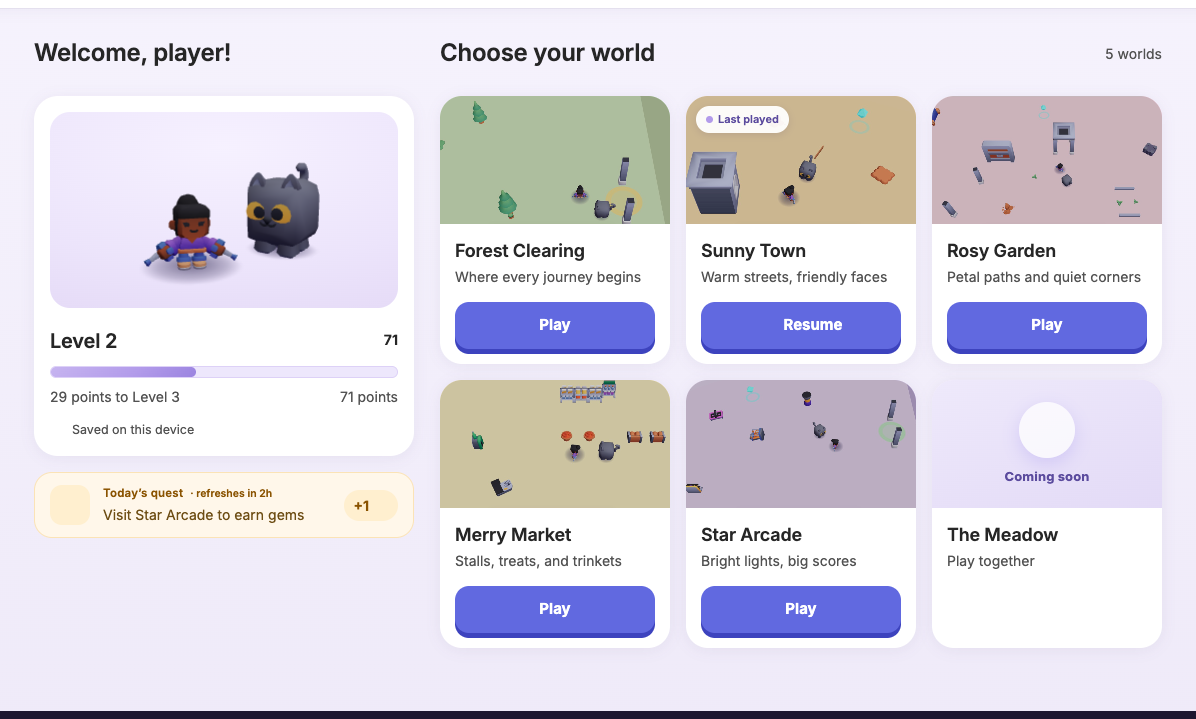
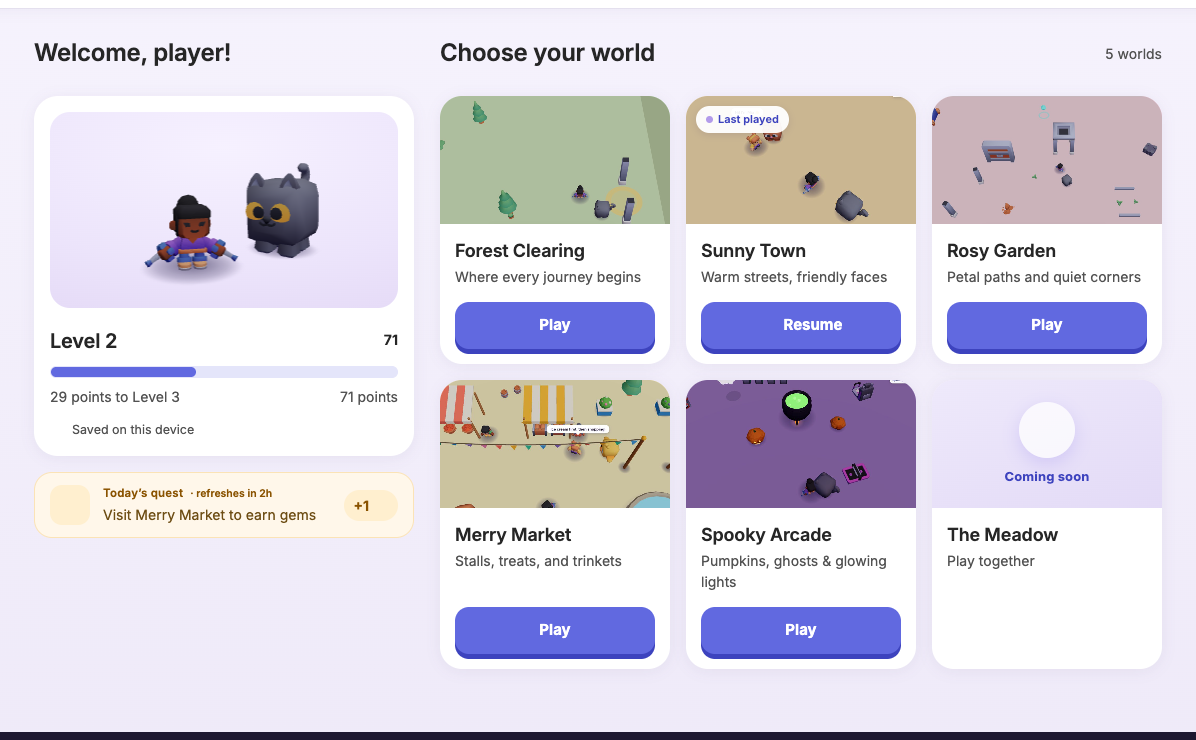
Door level bar + level-up glow follow the Iris level identity
#38 moved the shared LVL to Iris, but the Door kept its own Lilac copy, so the
home screen's level bar stayed lilac while the HUD pill went Iris. The Door's
track/fill now read mathkit LVL; the HUD pill's surgeGlow keyframe moves to
Iris 500. "Last played" / "Coming soon" text Lilac 800 → text-brand (Lilac is
decoration only). Door audit 28 checks, 0 fail.

diff --git a/src/ui/Door.jsx b/src/ui/Door.jsx
@@ -21,6 +21,7 @@
  */
 
 import { levelState, fmtPoints } from '../levels'
+import { LVL } from './mathkit'
 import HeroStage from './HeroStage'
 import { GemIcon, ProfileChip } from './hudkit'
 import Footer from './Footer'
@@ -40,7 +41,7 @@ const T = {
   amber: '#FE9A00', amberSoft: '#FFF7EA', amberLine: '#FBE3B6', amberInk: '#8A5300',
   pink: '#F6339A', pinkDark: '#C6005C',
 }
-/* Brand Lilac (400/100/200/800, grad 300→500) — levels + supporting; primary actions wear Brand Iris (btn) */
+/* Brand Lilac — decoration on the Door (rocket, stage, chip dot); the LEVEL bar reads mathkit LVL (Iris). Primary actions wear Brand Iris (btn) */
 const V = {
   main: '#B29BEA', soft: '#EDE7FC', softLine: '#DDD1F7', deep: '#5B4B9E',
   btn: '#6169E0', btnDark: '#3D43BE', // Brand Iris 500 face / 700 shadow — actions (4.56:1 white bold; was #7C6CE8 at 4.06, failed AA)
@@ -132,8 +133,10 @@ const heroS = {
   lvlNum: { fontSize: 20, fontWeight: 600, color: T.textPrimary, letterSpacing: '-.01em' },
   pts: { fontSize: BODY, fontWeight: 400, color: T.textSecondary },
   gems: { display: 'inline-flex', alignItems: 'center', gap: 5, fontSize: BODY, fontWeight: 700, color: T.textPrimary },
-  track: { position: 'relative', height: 12, borderRadius: 999, background: V.soft, overflow: 'hidden', marginTop: 10, border: '1px solid ' + V.softLine },
-  fill: { position: 'absolute', left: 0, top: 0, bottom: 0, borderRadius: 999, background: V.grad },
+  // the level bar reads the SHARED level identity (mathkit LVL, Iris since 2026-10-06) — the
+  // Door's own Lilac copy is what left it lilac when the HUD pill went Iris
+  track: { position: 'relative', height: 12, borderRadius: 999, background: LVL.soft, overflow: 'hidden', marginTop: 10, border: '1px solid ' + LVL.softLine },
+  fill: { position: 'absolute', left: 0, top: 0, bottom: 0, borderRadius: 999, background: LVL.grad },
   toNextRow: { display: 'flex', alignItems: 'baseline', justifyContent: 'space-between', gap: 12, marginTop: 8 },
   toNext: { fontSize: BODY, fontWeight: 400, color: T.textSecondary },
   newLine: { fontSize: BODY, fontWeight: 400, color: T.textSecondary, marginTop: 18, lineHeight: 1.5 },
@@ -201,10 +204,10 @@ const cardS = {
   card: { position: 'relative', background: T.surface, borderRadius: 22, boxShadow: '0 2px 14px rgba(74,54,110,.07)', overflow: 'hidden', display: 'flex', flexDirection: 'column', animation: 'doorPop .4s ease-out both' },
   thumb: { position: 'relative', width: '100%', height: 128 },
   thumbImg: { position: 'absolute', inset: 0, width: '100%', height: '100%', objectFit: 'cover', objectPosition: 'center 60%' },
-  chip: { position: 'absolute', left: 10, top: 10, zIndex: 2, display: 'inline-flex', alignItems: 'center', gap: 5, background: 'rgba(255,255,255,.94)', color: V.deep, fontSize: 11, fontWeight: 600, padding: '5px 10px', borderRadius: 999, boxShadow: '0 2px 8px rgba(74,54,110,.14)' },
+  chip: { position: 'absolute', left: 10, top: 10, zIndex: 2, display: 'inline-flex', alignItems: 'center', gap: 5, background: 'rgba(255,255,255,.94)', color: 'var(--color-text-brand)', fontSize: 11, fontWeight: 600, padding: '5px 10px', borderRadius: 999, boxShadow: '0 2px 8px rgba(74,54,110,.14)' },
   soonScrim: { position: 'absolute', inset: 0, zIndex: 2, background: 'linear-gradient(160deg, rgba(238,233,251,.94), rgba(228,220,247,.96))', display: 'flex', flexDirection: 'column', alignItems: 'center', justifyContent: 'center', gap: 9 },
   soonBadge: { width: 56, height: 56, borderRadius: '50%', background: 'rgba(255,255,255,.75)', display: 'flex', alignItems: 'center', justifyContent: 'center', boxShadow: '0 6px 18px rgba(124,108,232,.22)' },
-  soonWord: { fontSize: 13, fontWeight: 700, color: V.deep, letterSpacing: '.01em' },
+  soonWord: { fontSize: 13, fontWeight: 700, color: 'var(--color-text-brand)', letterSpacing: '.01em' },
   body: { padding: '13px 15px 4px' },
   name: { fontSize: 18, fontWeight: 600, color: T.textPrimary, letterSpacing: '-.01em' },
   blurb: { fontSize: BODY, fontWeight: 400, color: T.textSecondary, marginTop: 2 },

diff --git a/src/index.css b/src/index.css
@@ -289,9 +289,9 @@ canvas { touch-action: none; display: block; }
 /* the bar */
 @keyframes shineSweep { 0% { transform: translateX(-140%) skewX(-18deg); } 100% { transform: translateX(340%) skewX(-18deg); } }
 @keyframes nearShimmer { 0%, 100% { filter: brightness(1); } 50% { filter: brightness(1.28); } }
-/* pastel level identity (2026-07-26) — 167,139,250 is LVL.main; the saturated
-   127,34,254 ring read as a hard purple flash against the softened bar */
-@keyframes surgeGlow { 0% { box-shadow: 0 0 0 0 rgba(167,139,250,0); } 45% { box-shadow: 0 0 0 7px rgba(167,139,250,.30); } 100% { box-shadow: 0 0 0 0 rgba(167,139,250,0); } }
+/* level identity = Iris 500 (97,105,224 = LVL.glow, 2026-10-06; was pastel Lilac).
+   Kept soft at .30 — a full-strength ring read as a hard flash on the bar */
+@keyframes surgeGlow { 0% { box-shadow: 0 0 0 0 rgba(97,105,224,0); } 45% { box-shadow: 0 0 0 7px rgba(97,105,224,.30); } 100% { box-shadow: 0 0 0 0 rgba(97,105,224,0); } }
 @keyframes rollOut { 0% { transform: translateY(0); opacity: 1; } 100% { transform: translateY(-115%); opacity: 0; } }
 @keyframes rollIn { 0% { transform: translateY(115%); opacity: 0; } 100% { transform: translateY(0); opacity: 1; } }
 @keyframes tickPop { 0% { transform: scale(1); } 40% { transform: scale(1.28); } 100% { transform: scale(1); } }

diff --git a/a11y-reports/door/report.md b/a11y-reports/door/report.md
@@ -1,6 +1,6 @@
 # Contrast audit — Door
 
-**Standard:** WCAG 2.2 AA · **Source:** `src/ui/Door.jsx` · **Run:** 2026-10-05 04:58 UTC  
+**Standard:** WCAG 2.2 AA · **Source:** `src/ui/Door.jsx` · **Run:** 2026-10-06 22:15 UTC  
 **Variants:** Returning player · **Phases:** idle
 
 > **28 unique checks · 27 pass · 0 fail · 0 exempt (disabled) · 0 need review**
@@ -29,7 +29,7 @@ None — every check passes WCAG 2.2 AA. 🎉
 | Saved on this device | `#525252` on `#FFFFFF` | 12.5px | 7.81:1 | 4.50:1 | ✅ | idle |
 | Today’s quest | `#8A5300` on `#FFF7EA` | 11.5px | 5.95:1 | 4.50:1 | ✅ | idle |
 | · refreshes in 2h | `#8A5300` on `#FFF7EA` | 10.5px | 5.95:1 | 4.50:1 | ✅ | idle |
-| Visit Star Arcade to earn gems | `#6E4E15` on `#FFF7EA` | 14px | 7.14:1 | 4.50:1 | ✅ | idle |
+| Visit Merry Market to earn gems | `#6E4E15` on `#FFF7EA` | 14px | 7.14:1 | 4.50:1 | ✅ | idle |
 | +1 | `#8A5300` on `#FFEFCF` | 14px bold | 5.57:1 | 4.50:1 | ✅ | idle |
 | Forest Clearing | `#262626` on `#FFFFFF` | 18px | 15.13:1 | 4.50:1 | ✅ | idle |
 | Where every journey begins | `#525252` on `#FFFFFF` | 14px | 7.81:1 | 4.50:1 | ✅ | idle |
@@ -41,14 +41,14 @@ None — every check passes WCAG 2.2 AA. 🎉
 | Petal paths and quiet corners | `#525252` on `#FFFFFF` | 14px | 7.81:1 | 4.50:1 | ✅ | idle |
 | Merry Market | `#262626` on `#FFFFFF` | 18px | 15.13:1 | 4.50:1 | ✅ | idle |
 | Stalls, treats, and trinkets | `#525252` on `#FFFFFF` | 14px | 7.81:1 | 4.50:1 | ✅ | idle |
-| Star Arcade | `#262626` on `#FFFFFF` | 18px | 15.13:1 | 4.50:1 | ✅ | idle |
-| Bright lights, big scores | `#525252` on `#FFFFFF` | 14px | 7.81:1 | 4.50:1 | ✅ | idle |
+| Spooky Arcade | `#262626` on `#FFFFFF` | 18px | 15.13:1 | 4.50:1 | ✅ | idle |
+| Pumpkins, ghosts & glowing lights | `#525252` on `#FFFFFF` | 14px | 7.81:1 | 4.50:1 | ✅ | idle |
 | The Meadow | `#262626` on `#FFFFFF` | 18px | 15.13:1 | 4.50:1 | ✅ | idle |
 | Play together | `#525252` on `#FFFFFF` | 14px | 7.81:1 | 4.50:1 | ✅ | idle |
 | Welcome, player! | `#262626` on `#F5F1FC` ᵖ | 24px (large) | 13.60:1 | 3.00:1 | ✅ | idle |
 | Choose your world | `#262626` on `#F5F1FC` ᵖ | 24px (large) | 13.60:1 | 3.00:1 | ✅ | idle |
 | 5 worlds | `#525252` on `#F5F1FC` ᵖ | 14px | 7.02:1 | 4.50:1 | ✅ | idle |
-| Coming soon | `#5B4B9E` on `#E4DBF8` ᵖ | 13px bold | 5.36:1 | 4.50:1 | ✅ | idle |
+| Coming soon | `#3D43BE` on `#E4DBF8` ᵖ | 13px bold | 5.75:1 | 4.50:1 | ✅ | idle |
 
 ---
 
